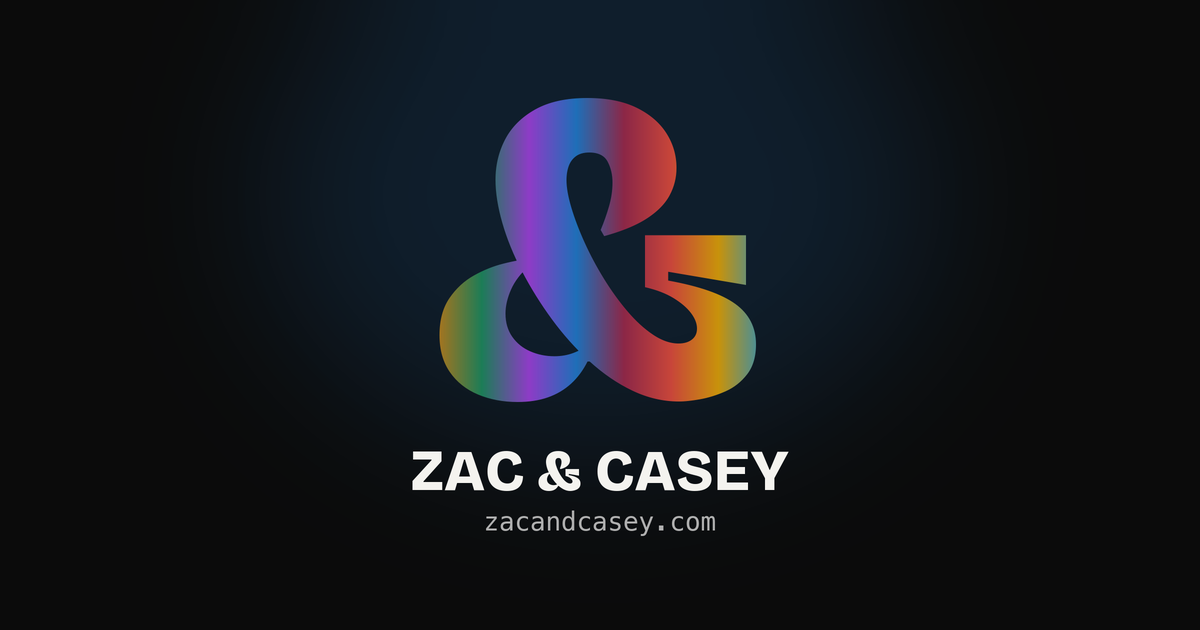
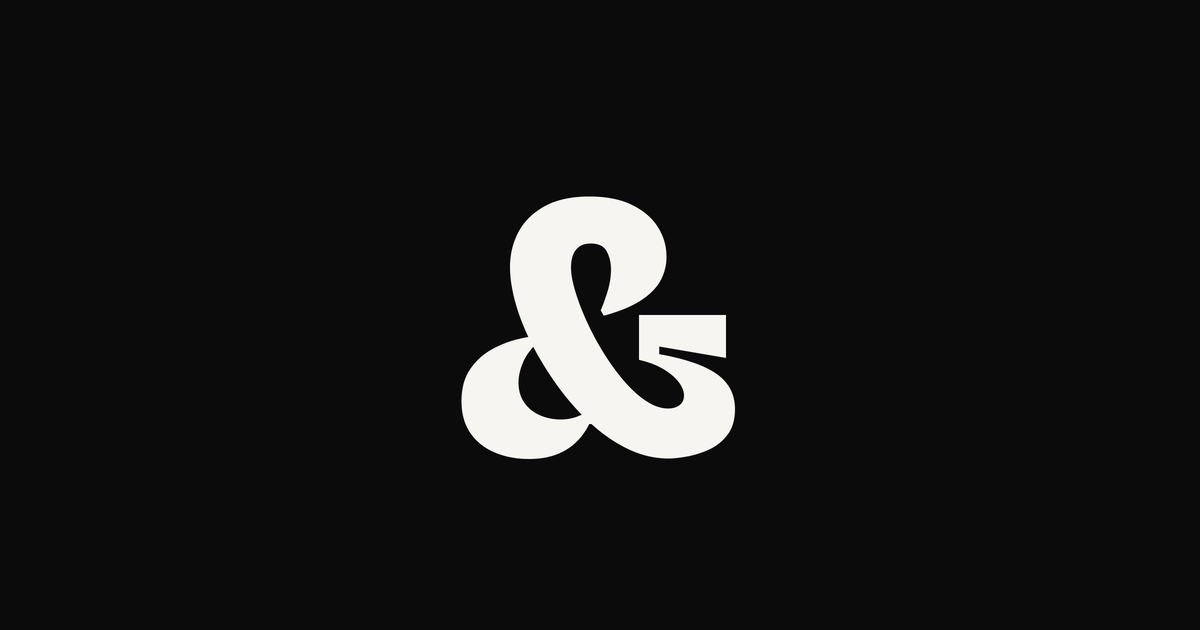
Simpler link-preview card (white & on black); bigger Index button
- og-card.png is now just the white ampersand on black, no text; cache-busted via ?v=2 so platforms re-fetch
- Index menu button enlarged (14px label, more padding, 20px bars) — more noticeable on large screens

Changed region(s): [[0.2775, 0.0, 0.74, 0.7841], [0.4008, 0.8143, 0.6167, 0.8444]]

diff --git a/index.html b/index.html
@@ -10,14 +10,14 @@
     <meta property="og:type" content="website" />
     <meta property="og:url" content="https://zacandcasey.com/" />
     <meta property="og:site_name" content="Zac & Casey" />
-    <meta property="og:image" content="https://zacandcasey.com/assets/og-card.png" />
+    <meta property="og:image" content="https://zacandcasey.com/assets/og-card.png?v=2" />
     <meta property="og:image:width" content="1200" />
     <meta property="og:image:height" content="630" />
     <meta property="og:image:alt" content="Zac & Casey — zacandcasey.com" />
     <meta name="twitter:card" content="summary_large_image" />
     <meta name="twitter:title" content="Zac & Casey" />
     <meta name="twitter:description" content="An Aussie creative team hiding out in New Zealand." />
-    <meta name="twitter:image" content="https://zacandcasey.com/assets/og-card.png" />
+    <meta name="twitter:image" content="https://zacandcasey.com/assets/og-card.png?v=2" />
     <meta name="theme-color" content="#0d0d0d" />
     <link rel="icon" href="favicon.svg" type="image/svg+xml" />
     <script>
@@ -28,7 +28,7 @@
     <link rel="preconnect" href="https://fonts.googleapis.com" />
     <link rel="preconnect" href="https://fonts.gstatic.com" crossorigin />
     <link rel="stylesheet" href="https://fonts.googleapis.com/css2?family=Bricolage+Grotesque:opsz,wght@12..96,400..800&display=swap" />
-    <link rel="stylesheet" href="styles.css?v=34" />
+    <link rel="stylesheet" href="styles.css?v=35" />
   </head>
   <body>
     <div class="grain" aria-hidden="true"></div>

diff --git a/styles.css b/styles.css
@@ -182,15 +182,15 @@ sup { font-size: 0.5em; vertical-align: super; }
 
 .menu-toggle {
   position: fixed; top: 12px; right: var(--pad); z-index: 900;
-  display: inline-flex; align-items: center; gap: 10px;
+  display: inline-flex; align-items: center; gap: 12px;
   background: var(--white); color: var(--ink);
   border: none; border-radius: 999px; cursor: pointer;
-  padding: 10px 16px; font-family: var(--mono); font-size: 12px;
+  padding: 13px 22px; font-family: var(--mono); font-size: 14px;
   letter-spacing: 0.08em; text-transform: uppercase; font-weight: 600;
   transition: transform 0.4s var(--ease), background-color 0.3s, color 0.3s;
 }
 .menu-toggle:hover { transform: translateY(-2px); }
-.menu-toggle-bars { display: inline-grid; gap: 4px; width: 16px; }
+.menu-toggle-bars { display: inline-grid; gap: 5px; width: 20px; }
 .menu-toggle-bars i { height: 2px; background: currentColor; transition: transform 0.4s var(--ease), opacity 0.3s; }
 body.nav-open .menu-toggle { background: var(--hero-accent); color: #fff; }
 body.nav-open .menu-toggle-bars i:first-child { transform: translateY(3px) rotate(45deg); }